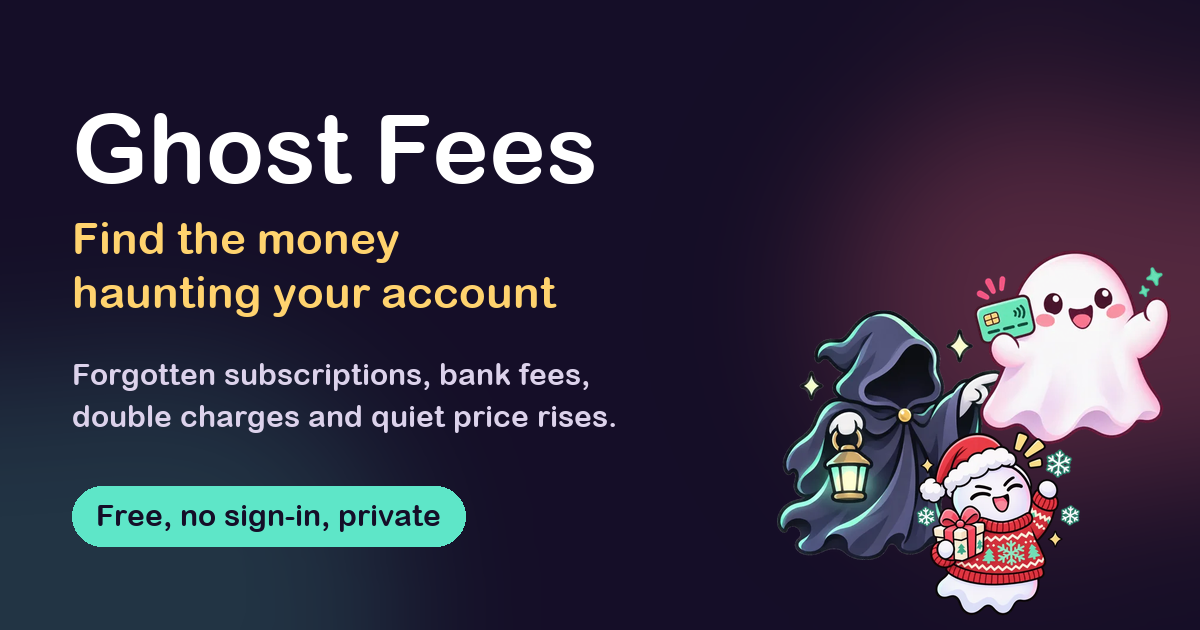
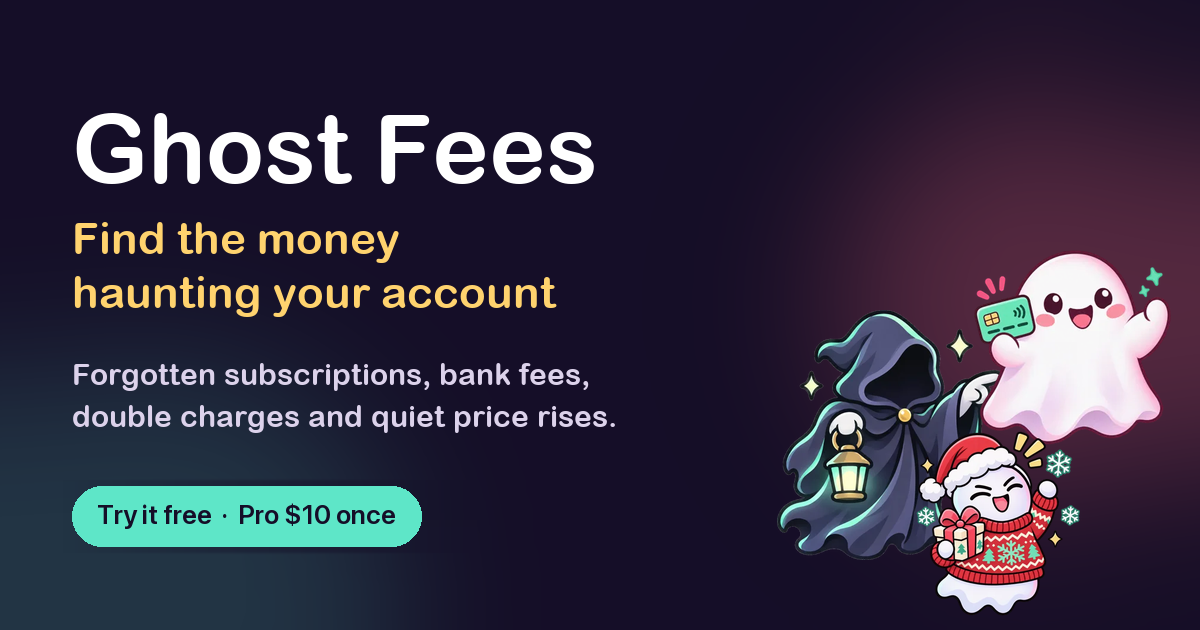
🔗 Link preview: Try it free · Pro $10 once (was Free, no sign-in)

Changed region(s): [[0.0617, 0.754, 0.4008, 0.8746]]

diff --git a/index.html b/index.html
@@ -8,7 +8,7 @@
     <meta name="viewport" content="width=device-width, initial-scale=1.0" />
     <link rel="manifest" href="/manifest.json" />
     <meta name="theme-color" content="#150e28" />
-    <meta name="description" content="Upload a bank statement and Ghost Fees finds the subscriptions, bank fees and quiet price rises draining your account each year. No login needed." />
+    <meta name="description" content="Upload a bank statement and Ghost Fees finds the subscriptions, bank fees and quiet price rises draining your account each year. No bank login. Try it free, Pro is $10 once." />
     <link rel="preconnect" href="https://fonts.googleapis.com" />
     <link rel="preconnect" href="https://fonts.gstatic.com" crossorigin />
     <link href="https://fonts.googleapis.com/css2?family=Baloo+2:wght@700;800&family=Inter:wght@400..700&family=VT323&display=swap" rel="stylesheet" />
@@ -17,13 +17,13 @@
     <meta property="og:site_name" content="Ghost Fees" />
     <meta property="og:url" content="https://hunt-ghost-fees.base44.app/" />
     <meta property="og:title" content="Ghost Fees: find the subscriptions you forgot" />
-    <meta property="og:description" content="Upload a bank statement and Ghost Fees finds the subscriptions, bank fees and quiet price rises draining your account each year. Cancel them in one click. Free to try, no bank login." />
-    <meta property="og:image" content="https://hunt-ghost-fees.base44.app/og-image.png" />
+    <meta property="og:description" content="Upload a bank statement and Ghost Fees finds the subscriptions, bank fees and quiet price rises draining your account each year. Cancel them in one click. No bank login. Try it free, Pro is $10 once, never a subscription." />
+    <meta property="og:image" content="https://hunt-ghost-fees.base44.app/og-image.png?v=2" />
     <meta property="og:image:width" content="1200" />
     <meta property="og:image:height" content="630" />
     <meta property="og:image:alt" content="Ghost Fees: three friendly ghosts and the words Find the money haunting your account" />
     <meta name="twitter:card" content="summary_large_image" />
-    <meta name="twitter:image" content="https://hunt-ghost-fees.base44.app/og-image.png" />
+    <meta name="twitter:image" content="https://hunt-ghost-fees.base44.app/og-image.png?v=2" />
     <title>Ghost Fees: find the subscriptions you forgot</title>
   </head>
   <body>

diff --git a/GHOST_LOG.md b/GHOST_LOG.md
@@ -796,3 +796,9 @@ One entry per change. Newest at the bottom.
 - How to test: Christmas theme, Scan a sample, Email templates (Jolly's letters): the ghosts bob, each price is on a tag, the list below shows who is eating what.
 - User feedback that drove this: team review ("implement this, the Christmas ghosts bobbing up and down", with the new table picture)
 - Not deleted: the old table.webp, the old seated-*.webp (seated-gym is still used in the list) and jollysTable.json are no longer used by the table. Left in place; delete only when you say so.
+
+### Link preview: no more "Free, no sign-in"
+- What: the share card (Slack, iMessage, WhatsApp) said "Free, no sign-in, private", which isn't true now that scans need a sign-in and Pro is paid. The badge now says "Try it free · Pro $10 once", and the page description says "No bank login. Try it free, Pro is $10 once." The image link has ?v=2 so apps fetch the new picture instead of a cached one.
+- Files: public/og-image.png, index.html
+- How to test: after publishing, paste https://hunt-ghost-fees.base44.app into a new Slack message (old posts keep the old card), or check it at opengraph.xyz.
+- User feedback that drove this: team review ("why is the preview showing that it's not fully free and there is sign in for Pro")
